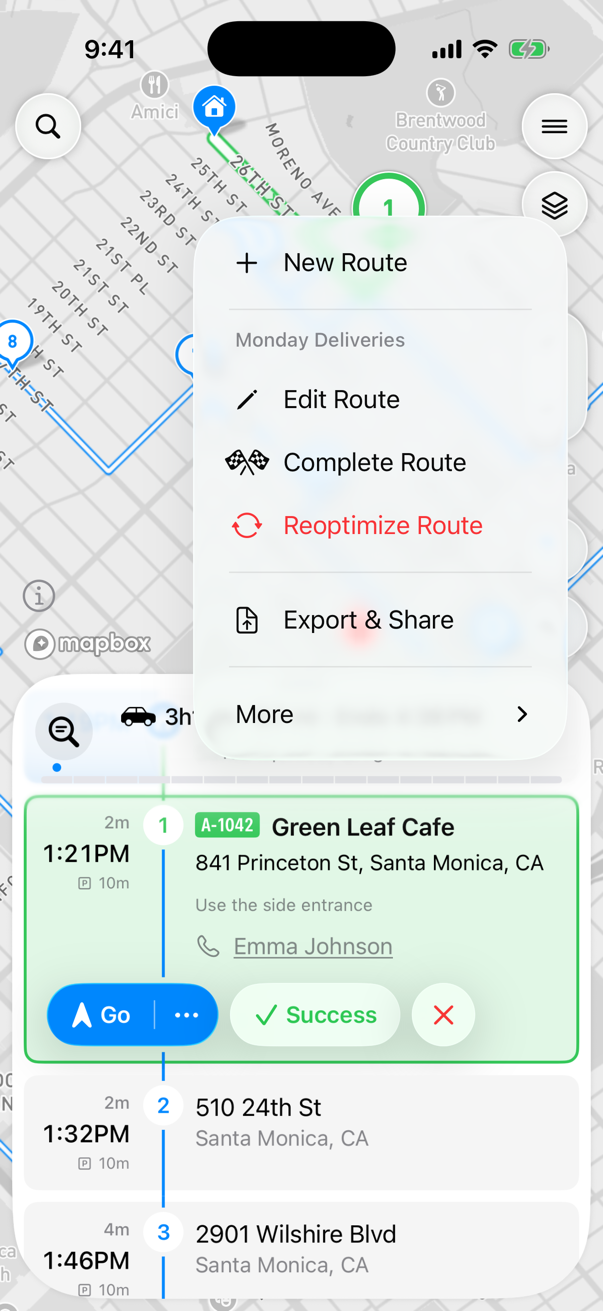
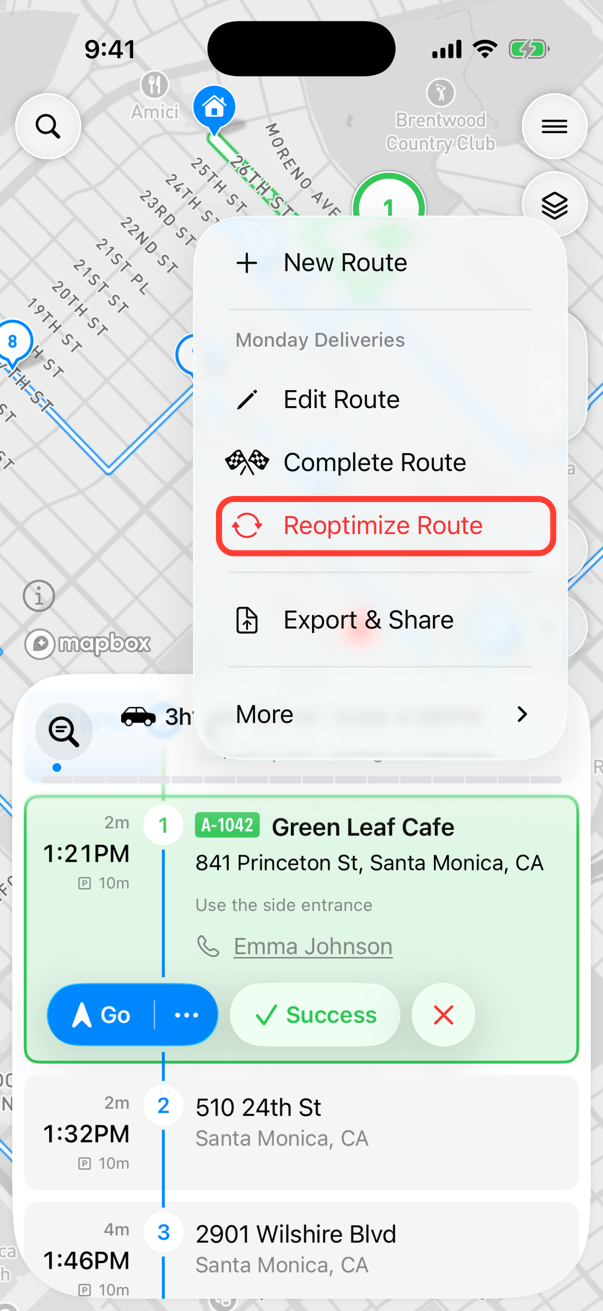
v3: optimize button by route status; Route Settings on its own page
- How to use: "The Optimize Button" section and the full optimization
  flow (Current / Optimized, Optimize or Keep Stop Order, Start Route)
- Optimisation Settings: where to optimize in each route status
- New page Understand Route Settings, moved out of How to use; links
  repointed, page added to SUMMARY and home
- Highlighted optimize button and Reoptimize Route menu screenshots

Changed region(s): [[0.3582, 0.3661, 0.9254, 0.4272]]

diff --git a/guides/how-to-use-myway-route-planner.md b/guides/how-to-use-myway-route-planner.md
@@ -24,7 +24,7 @@ MyWay then asks where the route ends. Tap **Return to Start** to finish where yo
 
 Then add the places you need to visit with **Add Stop** or the magnifier button in the top left corner of the map. Tap a search result to add the stop and close the search, or tap **+** next to it to add the stop and keep searching for the next one.
 
-If most of your routes start and end in the same places, set a default start and end location in [Route Settings](#route-settings).
+If most of your routes start and end in the same places, set a default start and end location in [Default Route Settings](understand-route-settings.md#default-route-settings).
 
 Besides the address search, the **Add Stop** screen lets you add stops from:
 
@@ -58,49 +58,9 @@ Some addresses might not appear in the search results. If this happens, add more
 
 ## Route Settings
 
-While you plan a route, its settings are shown below the stops, under **Route Settings**. Tap a setting to change it for this route only:
+While you plan a route, its settings are shown below the stops, under **Route Settings**: vehicle, departure time, road restrictions, side of road and optimization mode. Tap a setting to change it for this route only. If you use the same settings for most routes, make them the default, together with the default start and end locations.
 
-* **Vehicle**: what you drive, for example Car. See [Vehicle Settings](understand-vehicle-settings.md).
-* **Departure time**: the route departs now by default. To plan it for later, tap **Depart now**, pick a date and time and tap **Done**. **Clear** switches back to departing now.
-* **Road Restrictions**: roads to [avoid](#road-restrictions), such as toll roads.
-* **Side of Road**: Any Side, Same Side as Stop or Across from Stop, for all stops in the route.
-* **Optimization mode**: [Optimize for Time or Optimize for Distance](#optimization-mode).
-
-Swipe the row to the left to see all settings. A highlighted setting means this route differs from the standard value, for example when you set a departure time or a road to avoid (the vehicle is always highlighted). You can change these settings only while you plan the route; after you start it, they're hidden.
-
-**Route settings are very important and can dramatically change your route time, distance and the way it looks.** Take some time to experiment with them, because there is no one-size-fits-all solution.
-
-<figure><img src="../.gitbook/assets/how-to-use-route-settings.png" alt="" width="188"><figcaption><p>Route Settings</p></figcaption></figure>
-
-{% hint style="info" %}
-**A tip from us:** you can plan a route in advance. Set the departure time, and MyWay calculates the ETAs from it. After you tap **Start Route**, the start location stays the current step with its own **Start Route** button. Tap it only when you actually leave: MyWay marks the start as done and recalculates all ETAs from that moment. This keeps your ETAs accurate and the traffic data up to date.
-{% endhint %}
-
-### Default Route Settings
-
-If you use the same settings for most routes, make them the default. The first button in the row (with two switches) opens the default **Route Settings**, which MyWay applies to new routes:
-
-* vehicle, side of road, optimization mode and road restrictions;
-* **Time at Stop**: the default time for new stops;
-* **Start & End Locations**: the default start and end for new routes.
-
-Tap the check mark to save. MyWay also applies the new defaults to the current route, but only to the settings you haven't changed for this route. For example, if your default vehicle was Car and you change it to Van, a route that still uses Car becomes Van, while a route where you chose Truck yourself stays Truck.
-
-### Optimization Mode
-
-**One of the most impactful settings for route planning is Optimization Mode**, which offers two options: **Optimize for Time** and **Optimize for Distance**. This setting affects both the optimized route and the order of your stops.
-
-**Optimizing for time is recommended in 90% of cases.** It works similarly to most navigation apps, focusing on efficiency rather than the shortest path. While the route might be slightly longer in distance, it's typically faster, more fuel-efficient and more convenient. These routes usually involve fewer turns, traffic lights and route changes.
-
-Optimizing for distance prioritizes the shortest possible route, even if it sacrifices time and convenience. Routes optimized this way often include more turns, traffic lights and unpaved roads. While it's less practical for most users, it can be useful for drivers who know the area very well.
-
-### Road Restrictions
-
-Road restrictions let you avoid highways, ferries, toll roads or unpaved roads. Some of these roads might be necessary to complete the route, so MyWay can't always avoid them. When it can't, it keeps their use to a minimum.
-
-{% hint style="warning" %}
-MyWay doesn't pass road restrictions to navigation apps. Set the same options in your navigation app, otherwise it may lead you along the roads you wanted to avoid.
-{% endhint %}
+**Route settings are very important and can dramatically change your route time, distance and the way it looks.** [Read how each setting works](understand-route-settings.md).
 
 ## Stop's Settings
 
@@ -116,22 +76,32 @@ When you add stops, pay attention to the warnings and errors MyWay shows you. Fo
 
 MyWay also supports multi-day routes. [Here's how to build them](planning-multi-day-routes.md).
 
-When you've added all stops and chosen the route settings, tap the round blue button with arrows at the bottom right. MyWay builds the route and asks you to choose the stop order.
+## The Optimize Button
 
-{% hint style="info" %}
-Without a Premium subscription, you can use routes with up to 15 stops. For a longer route, MyWay offers you Premium when you choose the stop order. [How much does MyWay cost?](../what-is-myway-route-planner/how-much-does-myway-route-planner-cost.md)
-{% endhint %}
+**To build and optimize a route you're planning, tap the optimize button: the round blue button with two circular arrows at the bottom right of the screen, over the stop list.** It isn't in the **…** menu. If you don't see it, pull the route panel up or tap **Done** if you're reordering stops.
+
+<figure><img src="../.gitbook/assets/how-to-use-optimize-button.png" alt="" width="188"><figcaption><p>The optimize button</p></figcaption></figure>
+
+On a route in progress, use **…** > **Reoptimize Route** ([see below](#update-and-actualize-route)). A completed route can't be optimized until you tap **…** > **Edit Route**. [Where to optimize in each route status](understand-optimisation-settings.md#where-to-optimize-a-route)
 
 ## Optimization Options (Build and Optimize your route)
 
-MyWay shows two versions of your route, each with the time you'll be done by and the distance:
+When you've added all stops and chosen the route settings:
 
-* [**Current keeps the stop order**](understand-optimisation-settings.md#optimize-reoptimize-route-settings) exactly as you entered it, with no optimization applied.
-* [**Optimized**](understand-optimisation-settings.md#optimize-reoptimize-route-settings) **automatically reorders the stops for the fastest or shortest route**, based on your optimization mode.
+1. Tap the optimize button. Its icon spins while MyWay calculates; a long route can take a minute or more. To cancel, tap the button again.
+2. The **Optimize Route** screen shows two versions of your route, each with the time you'll be done by, the distance and issues, if any:
+   * [**Current keeps the stop order**](understand-optimisation-settings.md#optimize-reoptimize-route-settings) exactly as you entered it, with no optimization applied.
+   * [**Optimized**](understand-optimisation-settings.md#optimize-reoptimize-route-settings) **automatically reorders the stops for the fastest or shortest route**, based on your optimization mode. It's selected by default.
+3. Tap a version to choose it. The button at the bottom changes: **Optimize Stop Order** for Optimized (it also shows how much time and distance you save) or **Keep Stop Order** for Current.
+4. Tap the button. MyWay applies the version: the stops get the new order and arrival times, and the optimize button turns into **Start Route**.
 
-Tap a version, then tap **Keep Stop Order** (for Current) or **Optimize Stop Order** (for Optimized). The button also shows how much time and distance the optimized order saves.
+To leave without changes, tap **X**. If the start location or stops are missing, MyWay shows where to add them.
 
 <figure><img src="../.gitbook/assets/how-to-use-optimize-route.png" alt="" width="188"><figcaption><p>Choose the stop order</p></figcaption></figure>
+
+{% hint style="info" %}
+Without a Premium subscription, you can use routes with up to 15 stops. For a longer route, you still see both versions, and MyWay offers Premium when you apply one. [How much does MyWay cost?](../what-is-myway-route-planner/how-much-does-myway-route-planner-cost.md)
+{% endhint %}
 
 {% hint style="warning" %}
 Sometimes an optimized route takes more time or covers a longer distance than the route without optimization. This happens because optimization considers all stop settings: [time windows, priority and time at stop affect your route's overall time and distance](understanding-stop-settings.md). Our **algorithm builds the most efficient route possible, considering all these parameters**. It may only look less efficient than the current order, because the **current order simply ignores all parameters**. To learn more, see our [article that explains how the route optimization algorithm works](../faq/the-route-myway-produced-doesnt-look-correct.md).
@@ -149,7 +119,7 @@ Our users also told us that some apps "build your route anyway" and show you tho
 
 ### Confirm your Route
 
-After you choose the stop order, MyWay shows the **Start Route** button. If you're done planning, tap it to start the route. To keep editing, tap the arrow next to **Start Route**: the button hides, and you can add stops or change settings. Then tap the round blue button again to rebuild the route.
+After you choose the stop order, MyWay shows the **Start Route** button in place of the optimize button. If you're done planning, tap it to start the route. To keep editing, tap the arrow next to **Start Route**. If you change the route (add, delete or move a stop, change a setting), the optimize button also comes back. Tap it again to rebuild the route.
 
 When you tap **Start Route**, MyWay recalculates the route using the latest data, including time windows, traffic and other factors.
 
@@ -192,8 +162,9 @@ The buttons on the right side of the map fit the whole route, the current segmen
 
 If you're running late or have changed your route, update the ETAs or the stop order:
 
-1. Tap **…** in the route header and choose **Reoptimize Route**.
-2. Choose **Update Route** to refresh the route and ETAs and keep the stop order, or **Reoptimize Route** to reorder all stops and build the optimal route.
+1. Tap **…** in the route header and choose **Reoptimize Route**. If the round optimize button is shown at the bottom right, you can tap it instead.
+2. MyWay asks "How to reoptimize?". Choose **Update Route** to refresh the route and ETAs and keep the stop order, or **Reoptimize Route** to reorder all stops and build the optimal route. Then tap the button at the bottom.
+3. **Update Route** applies right away; **Reoptimize Route** opens the **Optimize Route** screen, [as when you plan a route](#optimization-options-build-and-optimize-your-route).
 
 [Read more about these options](understand-optimisation-settings.md#route-update-and-reoptimize).
 
@@ -203,7 +174,7 @@ You can change the route even after optimization: before you start it or while i
 
 **Before you start the route**
 
-Tap the arrow next to **Start Route** and make your changes. Then tap the round blue button and choose **Keep Stop Order** to keep your own stop sequence, or **Optimize Stop Order**.
+Tap the arrow next to **Start Route** and make your changes. Then tap the optimize button and choose the stop order again.
 
 **After you start the route**
 
@@ -213,7 +184,7 @@ For bigger changes, use full edit mode:
 
 1. Tap **…** in the route header and choose **Edit Route**. MyWay warns you that you'll have to start the route again; tap **Edit Route Anyway**.
 2. Add, delete and reorder stops.
-3. Tap the round blue button and choose **Keep Stop Order** to keep your manual layout, or **Optimize Stop Order** to rebuild the most efficient route.
+3. The route is back in planning, so tap the round optimize button and choose **Keep Stop Order** to keep your manual layout, or **Optimize Stop Order** to rebuild the most efficient route.
 
 {% hint style="info" %}
 If you have any questions at this stage, drop us a line through the online chat: in the MyWay app, open the menu (☰, top right) and tap **Talk to Us**.

diff --git a/guides/understand-optimisation-settings.md b/guides/understand-optimisation-settings.md
@@ -12,15 +12,29 @@ description: >-
 
 You can build a route exactly the way you want it, in your own order, or let MyWay reorder the stops to give you the fastest or shortest route. Once you're on the road, you can update the route or reoptimize the stops that are left.
 
+## Where to optimize a route
+
+The **optimize button** is the round blue button with two circular arrows at the bottom right of the screen, over the stop list. What you use depends on the route status:
+
+| Route status | How to optimize | What happens next |
+| --- | --- | --- |
+| Planning (not started) | The optimize button. There is no optimize item in the **…** menu. | The **Optimize Route** screen: choose **Current** or **Optimized**. Then the button turns into **Start Route**. |
+| In progress | **…** in the route header > **Reoptimize Route**, always available. The optimize button appears only when the route is out of date, for example after you add, move or delete a stop. | "How to reoptimize?": **Update Route** or **Reoptimize Route**. |
+| Completed | Not available. Tap **…** > **Edit Route** first: the route goes back to planning and loses its completed status. | As when planning. |
+
+<figure><img src="../.gitbook/assets/how-to-use-optimize-button.png" alt="" width="188"><figcaption><p>The optimize button</p></figcaption></figure>
+
+If you don't see the optimize button while planning, pull the route panel up (the button hides when the panel is collapsed), tap **Done** if you're reordering stops with the pencil button, or tap the arrow next to **Start Route** to rebuild an already built route.
+
 ## Optimize/Reoptimize Route settings
 
-When you build a route, MyWay shows two versions of it:
+When you tap the optimize button, its icon spins while MyWay calculates the route (to cancel, tap it again). Then MyWay shows two versions of the route on the **Optimize Route** screen:
 
 **Current** keeps the stop order exactly as you entered it. You can build a route precisely the way you want it and track your route or delivery progress with MyWay. To use it, tap **Current** and then **Keep Stop Order**.
 
 **Optimized** gives you the most optimal route in terms of time and travel distance. This option is preferable, as it **will help you save time and money on fuel.** To use it, tap **Optimized** and then **Optimize Stop Order**.
 
-Each version shows the time you'll be done by and the distance, so you can compare them before you choose.
+Each version shows the time you'll be done by and the distance, so you can compare them before you choose. **Optimized** is selected by default. After you tap **Optimize Stop Order** or **Keep Stop Order**, MyWay applies that order and arrival times, and the optimize button turns into **Start Route**. To leave without changes, tap **X**.
 
 <figure><img src="../.gitbook/assets/how-to-use-optimize-route.png" alt="" width="188"><figcaption><p>Optimize Route</p></figcaption></figure>
 
@@ -45,9 +59,10 @@ A good sign that you need a route update is the "\~" symbol next to a time. It m
 To update a route in progress:
 
 1. Tap **…** in the route header and choose **Reoptimize Route**.
-2. MyWay asks how to reoptimize. Choose **Update Route** to refresh the route and ETAs and keep the stop order, or **Reoptimize Route** to reorder all stops and build the optimal route.
+2. MyWay asks "How to reoptimize?". Choose **Update Route** to refresh the route and ETAs and keep the stop order, or **Reoptimize Route** to reorder all stops and build the optimal route. Then tap the button at the bottom: it repeats the option you chose.
+3. **Update Route** applies right away (if some stops have issues, MyWay shows them first). **Reoptimize Route** opens the **Optimize Route** screen with Current and Optimized: choose one as when you plan a route.
 
-When the route paths are out of date, the round blue button with arrows also appears at the bottom right. It opens the same choice, with **Update Route** selected.
+When the route is out of date (for example, you added, moved or deleted a stop), the round optimize button also appears at the bottom right. It opens the same choice, with **Update Route** selected. The **…** menu opens it with **Reoptimize Route** selected.
 
 If you pick another stop as the next one, MyWay asks "Reoptimize remaining stops?". Choose **Reoptimize Route** to keep the time and distance accurate, or **No, thanks** to keep your order.
 

diff --git a/guides/understand-route-settings.md b/guides/understand-route-settings.md
@@ -1,0 +1,55 @@
+---
+description: >-
+  Vehicle, departure time, road restrictions, side of road and optimization mode
+  of a route, and the default route settings
+---
+
+# Understand Route Settings
+
+{% hint style="info" %}
+**Using MyWay on Android?** This page describes the iOS app version 3. See [Version 2 of How to use MyWay](https://help.mywayroute.com/v2/guides/how-to-use-myway-route-planner).
+{% endhint %}
+
+While you plan a route, its settings are shown below the stops, under **Route Settings**. Tap a setting to change it for this route only:
+
+* **Vehicle**: what you drive, for example Car. See [Vehicle Settings](understand-vehicle-settings.md).
+* **Departure time**: the route departs now by default. To plan it for later, tap **Depart now**, pick a date and time and tap **Done**. **Clear** switches back to departing now.
+* **Road Restrictions**: roads to [avoid](#road-restrictions), such as toll roads.
+* **Side of Road**: Any Side, Same Side as Stop or Across from Stop, for all stops in the route.
+* **Optimization mode**: [Optimize for Time or Optimize for Distance](#optimization-mode).
+
+Swipe the row to the left to see all settings. A highlighted setting means this route differs from the standard value, for example when you set a departure time or a road to avoid (the vehicle is always highlighted). You can change these settings only while you plan the route; after you start it, they're hidden.
+
+**Route settings are very important and can dramatically change your route time, distance and the way it looks.** Take some time to experiment with them, because there is no one-size-fits-all solution.
+
+<figure><img src="../.gitbook/assets/how-to-use-route-settings.png" alt="" width="188"><figcaption><p>Route Settings</p></figcaption></figure>
+
+{% hint style="info" %}
+**A tip from us:** you can plan a route in advance. Set the departure time, and MyWay calculates the ETAs from it. After you tap **Start Route**, the start location stays the current step with its own **Start Route** button. Tap it only when you actually leave: MyWay marks the start as done and recalculates all ETAs from that moment. This keeps your ETAs accurate and the traffic data up to date.
+{% endhint %}
+
+## Default Route Settings
+
+If you use the same settings for most routes, make them the default. The first button in the row (with two switches) opens the default **Route Settings**, which MyWay applies to new routes:
+
+* vehicle, side of road, optimization mode and road restrictions;
+* **Time at Stop**: the default time for new stops;
+* **Start & End Locations**: the default start and end for new routes.
+
+Tap the check mark to save. MyWay also applies the new defaults to the current route, but only to the settings you haven't changed for this route. For example, if your default vehicle was Car and you change it to Van, a route that still uses Car becomes Van, while a route where you chose Truck yourself stays Truck.
+
+## Optimization Mode
+
+**One of the most impactful settings for route planning is Optimization Mode**, which offers two options: **Optimize for Time** and **Optimize for Distance**. This setting affects both the optimized route and the order of your stops.
+
+**Optimizing for time is recommended in 90% of cases.** It works similarly to most navigation apps, focusing on efficiency rather than the shortest path. While the route might be slightly longer in distance, it's typically faster, more fuel-efficient and more convenient. These routes usually involve fewer turns, traffic lights and route changes.
+
+Optimizing for distance prioritizes the shortest possible route, even if it sacrifices time and convenience. Routes optimized this way often include more turns, traffic lights and unpaved roads. While it's less practical for most users, it can be useful for drivers who know the area very well.
+
+## Road Restrictions
+
+Road restrictions let you avoid highways, ferries, toll roads or unpaved roads. Some of these roads might be necessary to complete the route, so MyWay can't always avoid them. When it can't, it keeps their use to a minimum.
+
+{% hint style="warning" %}
+MyWay doesn't pass road restrictions to navigation apps. Set the same options in your navigation app, otherwise it may lead you along the roads you wanted to avoid.
+{% endhint %}

diff --git a/glossary.md b/glossary.md
@@ -16,10 +16,11 @@ The words MyWay uses in the app, and the other words people often use for the sa
 | **Start Location** | depot, origin, starting point, home | Where the route begins. Required. |
 | **End Location** | finish, destination, end point, return to depot | Where the route ends. Optional. **Return to Start** makes it the same as the start. |
 | **Route** | trip, run, tour, list of stops | A start location, stops and an optional end location. [More](guides/managing-your-routes.md) |
+| **Optimize button** | round blue button, arrows button, reroute button, build route | Round blue button with two circular arrows at the bottom right, over the stop list. Builds and optimizes a route you're planning; on a route in progress, appears only when the route is out of date. [More](guides/understand-optimisation-settings.md#where-to-optimize-a-route) |
 | **Optimize Stop Order** | optimization, route optimization, best order, sequence | MyWay reorders the stops to build the most efficient route. [More](guides/understand-optimisation-settings.md) |
 | **Keep Stop Order** ("Current") | my order, manual order, no optimization | Builds the route in the order you entered the stops. |
 | **Update Route** | refresh, recalculate, actualize ETAs | Recalculates the route and ETAs and keeps the stop order. [More](guides/understand-optimisation-settings.md#route-update-and-reoptimize) |
-| **Reoptimize Route** | re-optimize, rebuild | Reorders all remaining stops of a route in progress. |
+| **Reoptimize Route** | re-optimize, rebuild | Reorders all remaining stops of a route in progress. In the **…** menu of a route in progress only. [More](guides/understand-optimisation-settings.md#where-to-optimize-a-route) |
 | **Time at Stop** | service time, stop duration, dwell time, time on site | How long you stay at a stop. [More](faq/what-service-time-should-you-choose.md) |
 | **Time Window** | delivery window, appointment time, from–to, open hours | When you need to arrive at a stop. [More](guides/understanding-stop-settings.md#time-windows) |
 | **Priority** | ASAP, urgent, first stop, last stop | First, High, Normal or Last. [More](guides/understanding-stop-settings.md#priority-asap-button) |
@@ -27,8 +28,8 @@ The words MyWay uses in the app, and the other words people often use for the sa
 | **Tracking ID** | order number, parcel number, reference, ID | Your number for a stop. **AUTO** numbers all stops. [More](guides/understanding-stop-settings.md#tracking-id) |
 | **Proof of Delivery** | POD, visit confirmation, proof of visit, delivery status, delivery confirmation, e-signature | Statuses (Arrived, Success, Failed) and proof (photos, signature, details) for each stop. [More](guides/proof-of-delivery.md) |
 | **Skip** | skipped stop, remove from route | Takes a stop out of the route without deleting it; the stop moves to "Skipped". |
-| **Road Restrictions** | avoid, avoid tolls, avoid highways | Roads to avoid. [More](guides/how-to-use-myway-route-planner.md#road-restrictions) |
-| **Side of Road** | road side, curbside, same side | Which side of the road you stop on. [More](guides/how-to-use-myway-route-planner.md#route-settings) |
+| **Road Restrictions** | avoid, avoid tolls, avoid highways | Roads to avoid. [More](guides/understand-route-settings.md#road-restrictions) |
+| **Side of Road** | road side, curbside, same side | Which side of the road you stop on. [More](guides/understand-route-settings.md) |
 | **Vehicle** | vehicle type, truck mode, bike mode | Car, Van, Small Truck, Truck, Bicycle or Pedestrian. [More](guides/understand-vehicle-settings.md) |
 | **Geocoder** | address provider, data provider, geocoding provider, map provider | The service that finds addresses. [More](i-cant-find-an-address.md) |
 | **Navigation App** | navigator, GPS app, maps app | The app that gives you turn-by-turn directions. [More](guides/understand-navigation-settings.md) |

diff --git a/what-is-myway-route-planner/whats-new-in-myway-3.md b/what-is-myway-route-planner/whats-new-in-myway-3.md
@@ -25,7 +25,7 @@ A few things change during the move:
 ## Where to find things now
 
 * **Menu** (☰, top right): **Routes**, **Places**, **Preferences**, **Talk to Us**, **Help** and your subscription.
-* **Route Settings** (vehicle, departure time, road restrictions, side of road, optimization mode): below the stop list while you plan a route. [More](../guides/how-to-use-myway-route-planner.md#route-settings)
+* **Route Settings** (vehicle, departure time, road restrictions, side of road, optimization mode): below the stop list while you plan a route. [More](../guides/understand-route-settings.md)
 * **Navigation options**: tap **…** next to **Go** to open "Navigation to Stop". [More](../guides/understand-navigation-settings.md)
 * **Update or reoptimize a route in progress**: tap **…** in the route header > **Reoptimize Route**. [More](../guides/understand-optimisation-settings.md#route-update-and-reoptimize)
 * **Default start and end locations**: **Route Settings** > **Start & End Locations**. [More](../guides/understanding-stop-settings.md#start-and-finish-settings)
@@ -37,7 +37,7 @@ A few things change during the move:
 * **Pickup and delivery**: link the stop where you pick up goods to the stops where you deliver them. [More](../guides/understanding-stop-settings.md#pickup-and-delivery)
 * **Proof of delivery**: up to 5 photos per stop and your own failure reasons. [More](../guides/proof-of-delivery.md)
 * **Stop priorities**: First, High, Normal and Last. [More](../guides/understanding-stop-settings.md#priority-asap-button)
-* **Avoid unpaved roads** in Road Restrictions. [More](../guides/how-to-use-myway-route-planner.md#road-restrictions)
+* **Avoid unpaved roads** in Road Restrictions. [More](../guides/understand-route-settings.md#road-restrictions)
 * **Contacts** with company, website and messengers, and more stop details: premises, package count, tracking ID. [More](../guides/understanding-stop-settings.md)
 * **Import from a web link** to an .XLSX or .CSV file. [More](../guides/import-from-file-and-multi-line-import.md#import-from-file)
 * **New Liquid Glass design.**

diff --git a/faq/the-route-myway-produced-doesnt-look-correct.md b/faq/the-route-myway-produced-doesnt-look-correct.md
@@ -47,7 +47,7 @@ MyWay builds the route for your vehicle, but turn-by-turn directions come from y
 
 ### **Optimization Mode**
 
-[Optimization Mode](../guides/how-to-use-myway-route-planner.md#optimization-mode) is one of the most fundamental settings for route optimization. There are two options: **Optimize for Time** (more efficient) and **Optimize for Distance**.
+[Optimization Mode](../guides/understand-route-settings.md#optimization-mode) is one of the most fundamental settings for route optimization. There are two options: **Optimize for Time** (more efficient) and **Optimize for Distance**.
 
 Clearly, the "best route" means different things to different people. For most people, the best route is the fastest one. For some, though, it's the shortest path. And some prefer a trip that uses highways or avoids tolls and tunnels. Besides, the fastest or shortest route isn't always the most efficient. For instance, the quickest route might have many left turns, and the shortest one might go through heavy traffic. On both of these routes, your fuel consumption goes up significantly. And what if the fastest route is three minutes faster but several miles longer? Is it still efficient? What if the shortest path saves you 5 miles but takes you through two tolls? Is that efficient? Pick the option you believe will serve you better, or keep the default, **Optimize for Time**.
 
@@ -71,7 +71,7 @@ The app can build more efficient routes when **Allow U-turns on Waypoints** is o
 
 ### **Road Restrictions**
 
-[Road Restrictions](../guides/how-to-use-myway-route-planner.md#road-restrictions) let you avoid highways, ferries, toll roads and unpaved roads. Avoiding them can make the route longer.
+[Road Restrictions](../guides/understand-route-settings.md#road-restrictions) let you avoid highways, ferries, toll roads and unpaved roads. Avoiding them can make the route longer.
 
 {% hint style="info" %}
 Examples:

diff --git a/guides/app-settings.md b/guides/app-settings.md
@@ -8,7 +8,7 @@ description: Every setting in Preferences, what it does and its default value
 **Using MyWay on Android?** This page describes the iOS app version 3. See [Version 2 of this knowledge base](https://help.mywayroute.com/v2/).
 {% endhint %}
 
-To open the app settings, open the menu (☰, top right) and tap **Preferences**. Settings of a single route (vehicle, departure time, road restrictions, side of road, optimization mode) aren't here: they're in [Route Settings](how-to-use-myway-route-planner.md#route-settings), below the stop list.
+To open the app settings, open the menu (☰, top right) and tap **Preferences**. Settings of a single route (vehicle, departure time, road restrictions, side of road, optimization mode) aren't here: they're in [Route Settings](understand-route-settings.md), below the stop list.
 
 ## Proof of Delivery
 
@@ -54,7 +54,7 @@ To open the app settings, open the menu (☰, top right) and tap **Preferences**
 
 ## Other settings and where to find them
 
-* **Default Route Settings and default start and end locations**: the first button under Route Settings while you plan a route. [More](how-to-use-myway-route-planner.md#default-route-settings)
+* **Default Route Settings and default start and end locations**: the first button under Route Settings while you plan a route. [More](understand-route-settings.md#default-route-settings)
 * **Map type, traffic, saved places, ETA labels and your location on the map**: the layers button on the map. [More](using-the-map.md#map-layers)
 * **Sections of the stop form**: the gear button in the stop form. [More](understanding-stop-settings.md)
 * **App language**: iOS Settings > Apps > MyWay > Language. [More](../what-is-myway-route-planner/what-languages-myway-supports.md)

diff --git a/faq/error-messages.md b/faq/error-messages.md
@@ -14,7 +14,7 @@ Find your message by its text (use your browser's search or the search on this s
 
 | Message | What it means | What to do |
 | --- | --- | --- |
-| "Couldn't calculate the route. Try again." | The route couldn't be built this time. | Check your internet connection and tap the round blue button again. If it keeps happening, [contact us](../how-to-contact-us.md). |
+| "Couldn't calculate the route. Try again." | The route couldn't be built this time. | Check your internet connection and tap the optimize button (round, at the bottom right) again. If it keeps happening, [contact us](../how-to-contact-us.md). |
 | "The route calculation is taking too long. Try again later." | Our servers didn't finish in time. This happens more often with very large routes. | Try again in a few minutes. |
 | "The route calculation was cancelled on the server." | The calculation was stopped on our side. | Build the route again. |
 | "Error" with a number, or "The server sent an unexpected response" | A temporary problem on our servers. | Try again in 10–15 minutes. If it doesn't help, [contact us](../how-to-contact-us.md) and send the error number. |

diff --git a/guides/understanding-stop-settings.md b/guides/understanding-stop-settings.md
@@ -75,7 +75,7 @@ Time windows are ignored if you optimize for distance or follow your route in yo
 
 To calculate accurate ETAs, MyWay needs to know how much time you'll spend at each stop: from the moment you stop your car for the visit or delivery until you leave for the next stop.
 
-Each stop can have its own time at stop, so set a longer or shorter one where you know a stop takes more or less time. To use the same time for every unfinished stop of the route, tap **Apply to All Stops**. New stops get the default time (5 minutes), which you can change in [Route Settings](how-to-use-myway-route-planner.md#route-settings).
+Each stop can have its own time at stop, so set a longer or shorter one where you know a stop takes more or less time. To use the same time for every unfinished stop of the route, tap **Apply to All Stops**. New stops get the default time (5 minutes), which you can change in [Route Settings](understand-route-settings.md).
 
 **Set the time at stop as accurately as you can. If it's off by even 1 or 2 minutes, it can greatly impact your ETAs.** See [our suggested stop durations](../faq/what-service-time-should-you-choose.md).
 

diff --git a/faq/why-do-some-of-my-stops-have-issues-path-not-found-or-unexpected-error.md b/faq/why-do-some-of-my-stops-have-issues-path-not-found-or-unexpected-error.md
@@ -61,7 +61,7 @@ This can happen if your vehicle type is a big vehicle, like a truck (lorry). The
 <figure><img src="../.gitbook/assets/vehicle-picker.png" alt="" width="188"><figcaption><p>Vehicle type settings</p></figcaption></figure>
 
 {% hint style="info" %}
-[Vehicle Type](../guides/understand-vehicle-settings.md) and [route settings](../guides/how-to-use-myway-route-planner.md#route-settings) affect how the route looks, its time and distance, and how "correct" and convenient it is overall. [Make sure you use the right settings](the-route-myway-produced-doesnt-look-correct.md) to get the best results for your needs.
+[Vehicle Type](../guides/understand-vehicle-settings.md) and [route settings](../guides/understand-route-settings.md) affect how the route looks, its time and distance, and how "correct" and convenient it is overall. [Make sure you use the right settings](the-route-myway-produced-doesnt-look-correct.md) to get the best results for your needs.
 {% endhint %}
 
 ## **Other errors** <a href="#unexpected-error" id="unexpected-error"></a>

diff --git a/guides/understand-navigation-settings.md b/guides/understand-navigation-settings.md
@@ -28,7 +28,7 @@ For more options, tap **…** next to **Go** (or touch and hold a stop and choos
 Apple Maps and Google Maps can take up to 10 of your remaining stops at once. In Navigation to Stop, the **Navigate through** button shows the numbers of the first and the last stop it will pass. Other navigation apps take one stop at a time, so MyWay doesn't show this button for them.
 
 {% hint style="warning" %}
-A navigation app builds its own route through these stops. It doesn't know your time windows, priorities, [vehicle type](understand-vehicle-settings.md) or [road restrictions](how-to-use-myway-route-planner.md#road-restrictions), so check that it follows the order you planned.
+A navigation app builds its own route through these stops. It doesn't know your time windows, priorities, [vehicle type](understand-vehicle-settings.md) or [road restrictions](understand-route-settings.md#road-restrictions), so check that it follows the order you planned.
 {% endhint %}
 
 ## Navigation apps

diff --git a/guides/planning-multi-day-routes.md b/guides/planning-multi-day-routes.md
@@ -20,7 +20,7 @@ When you plan a multi-day route, there are a few things to keep in mind.
 
 A small "+1" (or "+2", etc.) next to a time in the stop list means this time falls on the next day (or later) after the route start. It's very similar to what you see when you buy plane tickets.
 
-To plan when the route starts, set the departure time ("Depart at…") under [Route Settings](how-to-use-myway-route-planner.md#route-settings).
+To plan when the route starts, set the departure time ("Depart at…") under [Route Settings](understand-route-settings.md).
 
 ### Time zones
 
